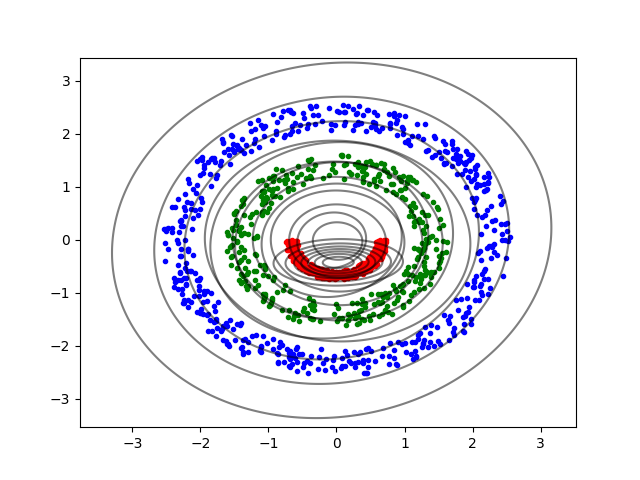
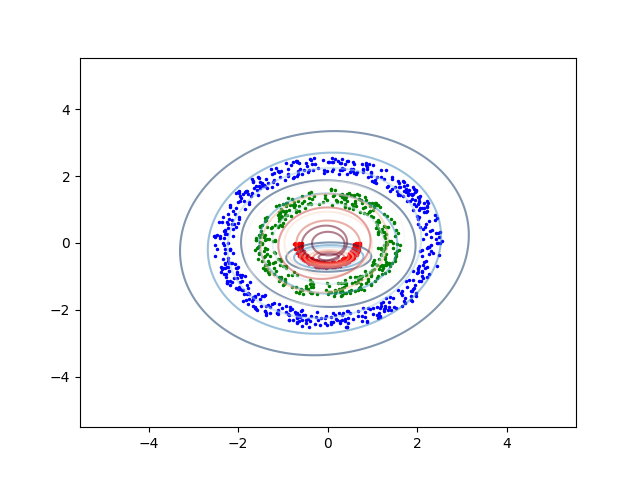
temp

diff --git a/Assignment2/main.py b/Assignment2/main.py
@@ -18,7 +18,7 @@ if inp=="1":
 	C3,t3=sf.get_data("Data/Data1/Class3.txt")
 	DATA=[C1,C2,C3]
 	test=[t1,t2,t3]
-	k_value = [16]
+	k_value = [1,2,4,8,16,32]
 	for i in k_value:
 		print i
 		model=GMMClassifier.GMMClassifier(DATA,i,[[-4.0,4.0],[-3.0,3.0]],test)
@@ -32,7 +32,7 @@ if inp=="2a":
 	C3,t3=sf.get_data("Data/Data2a/Class3.txt")
 	DATA=[C1,C2,C3]
 	test=[t1,t2,t3]
-	k_value = [32, 64]
+	k_value = [1,2,4,8,16]
 	for i in k_value:
 		model=GMMClassifier.GMMClassifier(DATA,i,[[-50.0,2000.0],[250.0,2800.0]],test)
 		model.plot_model(10.0)
